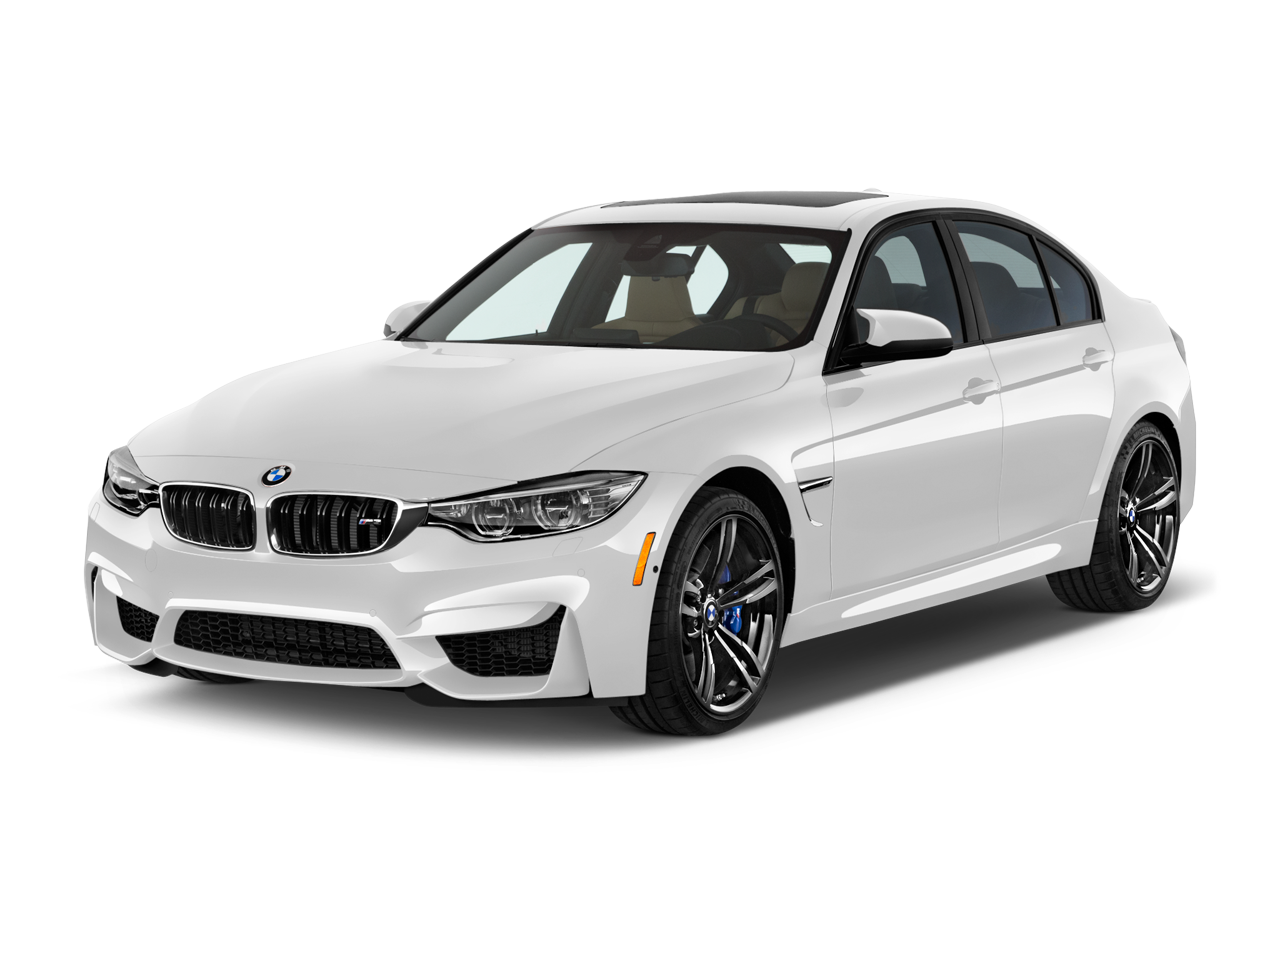
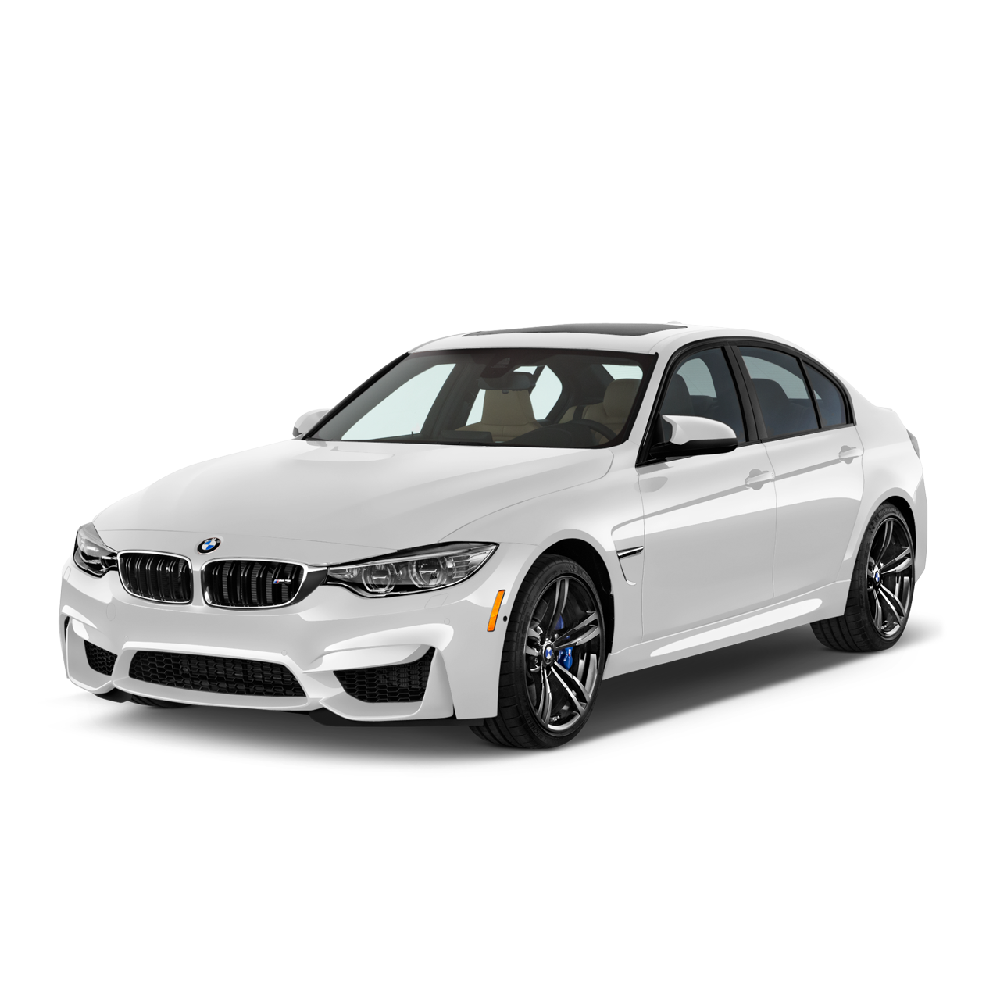
Edited format of images, and made carDisplay, OrderCarDisplay and selectedCarDisplay show relevant images. Also edited CSS for images.

Changed region(s): [[0.062, 0.1875, 0.961, 0.8125]]

diff --git a/src/components/Account/MyRentals/MyRentals.css b/src/components/Account/MyRentals/MyRentals.css
@@ -65,96 +65,6 @@
   flex-shrink: 0; /* Prevent the icon from shrinking */
 }
 
-  /**
-  * Rentals CarDisplay css
-  * Styles for the rentals car display section of "My Rentals".
-  */
-  .rentals-car-display-card {
-    display: flex;
-    flex-direction: row;
-    align-items: center;
-    background-color: white;
-    margin: 0 0 10px 0;
-    padding: 0;
-    border-radius: 20px;
-    box-shadow: 0 0 5px rgba(0, 0, 0, 0.1);
-    border: #252422 2px solid;
-    text-align: left;
-    width: 100%;
-
-  }
-
-  .rentals-car-display-card:hover {
-    box-shadow: 0 0 10px rgba(0, 0, 0, 1);
-    transition: 0.3s;
-  }
-
-  .rentals-car-display-card .car-background{
-    min-width: 480px;
-    border-radius: 15px;
-    background: radial-gradient(50% 50% at 50% 50%, white, #252422);
-    box-shadow: 0 0 5px rgba(0, 0, 0, 0.5);
-    position: relative; 
-    display: flex;
-    flex-direction: column;
-    height: 350px;
-    align-self: flex-start; 
-  }
-
-  .rentals-car-display-card .car-image {
-    margin-top:10px;
-    width: 275px;
-    height: auto;
-    align-self: center;
-  }
-
-  .rentals-car-display-card .car-image img {
-    width: fit-content;
-    height: fit-content;
-  }
-
-  .rentals-car-display-card .car-display-info {
-    display: flex;
-    width: 100%;
-    flex-direction: row;
-    align-self: flex-start;
-    justify-content: space-between;
-  }
-  .rentals-car-display-card .car-details {
-    display: flex;
-    flex-direction: column;
-    margin-left: 50px;
-  }
-
-  .rentals-car-display-card .car-details h3 {
-    margin: 10px 0 15px 0;
-    padding: 0;
-    font-size: 25px;
-    color: #252422;
-  }
-
-  .rentals-car-display-card .car-details p {
-    margin: 6px 0;
-    padding: 0;
-    font-size: 16px;
-    color: #252422;
-  }
-
-  .rentals-car-display-card .edit-button {
-    background-color: transparent;
-    color: white;
-    border: none;
-    cursor: pointer;
-    margin: 10px 5px auto auto;
-  }
-
-  .my-rentals-car-display .details-table {
-    display: flex;
-    flex-direction: column;
-    margin-left: 50px;
-    margin-top: 10px;
-  }
-
    @media screen and (max-width: 850px) {
     .my-rentals {
       width: 100%;

diff --git a/src/components/Rental/CarDisplay/CarDisplay.jsx b/src/components/Rental/CarDisplay/CarDisplay.jsx
@@ -1,7 +1,7 @@
 import "../../App.css";
 import "./CarDisplay.css";
 import React, { useState, useEffect } from "react";
-import carImage from "../../../resources/images/car.png"; 
+import { getCarImage } from '../../utils/CarImageMapper';
 import passengerImage from "../../../resources/images/passenger.png";
 import { Car, Seatbelt, PlusCircle, CaretDown } from "@phosphor-icons/react";
 
@@ -10,6 +10,8 @@ const CarDisplay = ({ displayCar: car, isSelected, onClick }) => {
     if (!car) {
       return <div>Loading...</div>;
     }
+
+  const carImage = getCarImage(car.carBrand, car.modelName);
 
   return (
     <button className={`car-display ${isSelected ? "selected" : ""}`} onClick={onClick}>
@@ -26,7 +28,11 @@ const CarDisplay = ({ displayCar: car, isSelected, onClick }) => {
         </section>
       </section>
 
-      <img id="car-image" src={carImage} alt="car-image"></img>
+      <img 
+          src={carImage}
+          alt={`${car.carBrand} ${car.modelName}`}
+          className="car-image" 
+          />
       {isSelected && (
         <div className="selected-arrow">
           <CaretDown size={24} color="#EB5E28" weight="fill" />

diff --git a/src/components/Rental/CarSelected/CarSelected.jsx b/src/components/Rental/CarSelected/CarSelected.jsx
@@ -1,7 +1,7 @@
 import React from 'react';
 import { useNavigate } from 'react-router-dom';
+import { getCarImage } from '../../utils/CarImageMapper';
 import { Car, Seatbelt, PlusCircle, Calendar, CaretDown } from "@phosphor-icons/react";
-import carImage from "../../../resources/images/car.png"; 
 
 import './CarSelected.css';
 import '../../App.css';
@@ -16,6 +16,8 @@ const CarSelected = ({car}) => {
     };
   };
 
+  const carImage = getCarImage(car.carBrand, car.modelName);
+
   return (
     <div className="car-selected">
       <div id ="car-background">
@@ -23,7 +25,11 @@ const CarSelected = ({car}) => {
         <h2>{car.carBrand} {car.carModel}</h2>
         <h3>{car.energySource}</h3>
         </header>
-        <img src={carImage} alt="Car" className="car-image" />
+        <img 
+          src={carImage}
+          alt={`${car.carBrand} ${car.modelName}`}
+          className="car-image" 
+          />
         <footer><h2>{car.provider.companyName}</h2></footer>
       </div>
       <section className="car-details">

diff --git a/src/components/Account/Orders/OrdersCarDisplay/OrdersCarDisplay.jsx b/src/components/Account/Orders/OrdersCarDisplay/OrdersCarDisplay.jsx
@@ -1,5 +1,6 @@
 import React from 'react';
 import { Warehouse} from "@phosphor-icons/react";
+import { getCarImage } from '../../../utils/CarImageMapper';
 import './OrdersCarDisplay.css';
 import '../../../App.css';
 
@@ -14,10 +15,16 @@ const OrdersCarDisplay = (rental) => {
 	const formattedEndDate = endDate.toLocaleDateString(undefined, options);
 	const dailyPrice = rental.priceTotal / rentingTime;
 
+	const carImage = getCarImage(rental.brand, rental.model);
+
   return (
     <div className="orders-car-display-card">
       <div className='car-background'>
-				<img src={rental.image} alt={rental.name} className="car-image" />
+			<img 
+          src={carImage}
+          alt={`${rental.brand} ${rental.model}`}
+          className="car-image" 
+          />
 				<h3 id='provider-name'>{rental.provider}</h3>
       </div>
       <div className="car-details">

diff --git a/src/components/Rental/CarDisplay/CarDisplay.css b/src/components/Rental/CarDisplay/CarDisplay.css
@@ -83,7 +83,7 @@
 }
 
 .car-display .bottom-section {
-  margin-top: -30px;
+  margin-top: -65px;
   margin-left: 10px;
   display: flex;
   flex-direction: column;
@@ -96,6 +96,7 @@
 }
 
 .car-display .price-section {
+  margin-top: -25px;
   display: flex;
   flex-direction: row;
 }
@@ -111,11 +112,11 @@
   margin-left: 10px;
 }
 
-.car-display #car-image {
-  width: 300px;
-  height: 300px;
-  align-self: center; 
-  margin: -20px;
+.car-display .car-image {
+  width: 380px;
+  height: auto;
+  align-self: center;
+  margin-top: -50px;
 }
 
 .car-display #car-image img {

diff --git a/src/components/Account/MyRentals/MyRentalsCarDisplay/MyRentalsCarDisplay.jsx b/src/components/Account/MyRentals/MyRentalsCarDisplay/MyRentalsCarDisplay.jsx
@@ -138,7 +138,7 @@ const MyRentalsCarDisplay = ({ car: rental }) => {
           <img 
           src={carImage}
           alt={`${displayCar.carBrand} ${displayCar.modelName}`}
-          className="car-image" 
+          classname="car-image" 
           />
         </div>
         <section className="car-display-info">

diff --git a/src/components/Account/MyRentals/MyRentalsCarDisplay/MyRentalsCarDisplay.css b/src/components/Account/MyRentals/MyRentalsCarDisplay/MyRentalsCarDisplay.css
@@ -28,11 +28,11 @@
   flex-direction: column;
   height: 350px;
   align-self: flex-start; 
+  justify-content: center;
 }
 
 .rentals-car-display-card .car-image {
-  margin-top:10px;
-  width: 275px;
+  width: 400px;
   height: auto;
   align-self: center;
 }

diff --git a/src/components/Rental/CarSelected/CarSelected.css b/src/components/Rental/CarSelected/CarSelected.css
@@ -76,7 +76,7 @@
 
 .car-selected #car-background img {
   border-radius: 15px;
-  width: 50%;
+  width: 60%;
   margin: -50px 0 -50px 0;
   align-self: center;
 }

diff --git a/src/components/Account/Orders/OrdersCarDisplay/OrdersCarDisplay.css b/src/components/Account/Orders/OrdersCarDisplay/OrdersCarDisplay.css
@@ -27,7 +27,7 @@
 }
 
 .orders-car-display-card .car-image {
-  width: 275px;
+  width: 320px;
   height: auto;
   align-self: center;
 }
